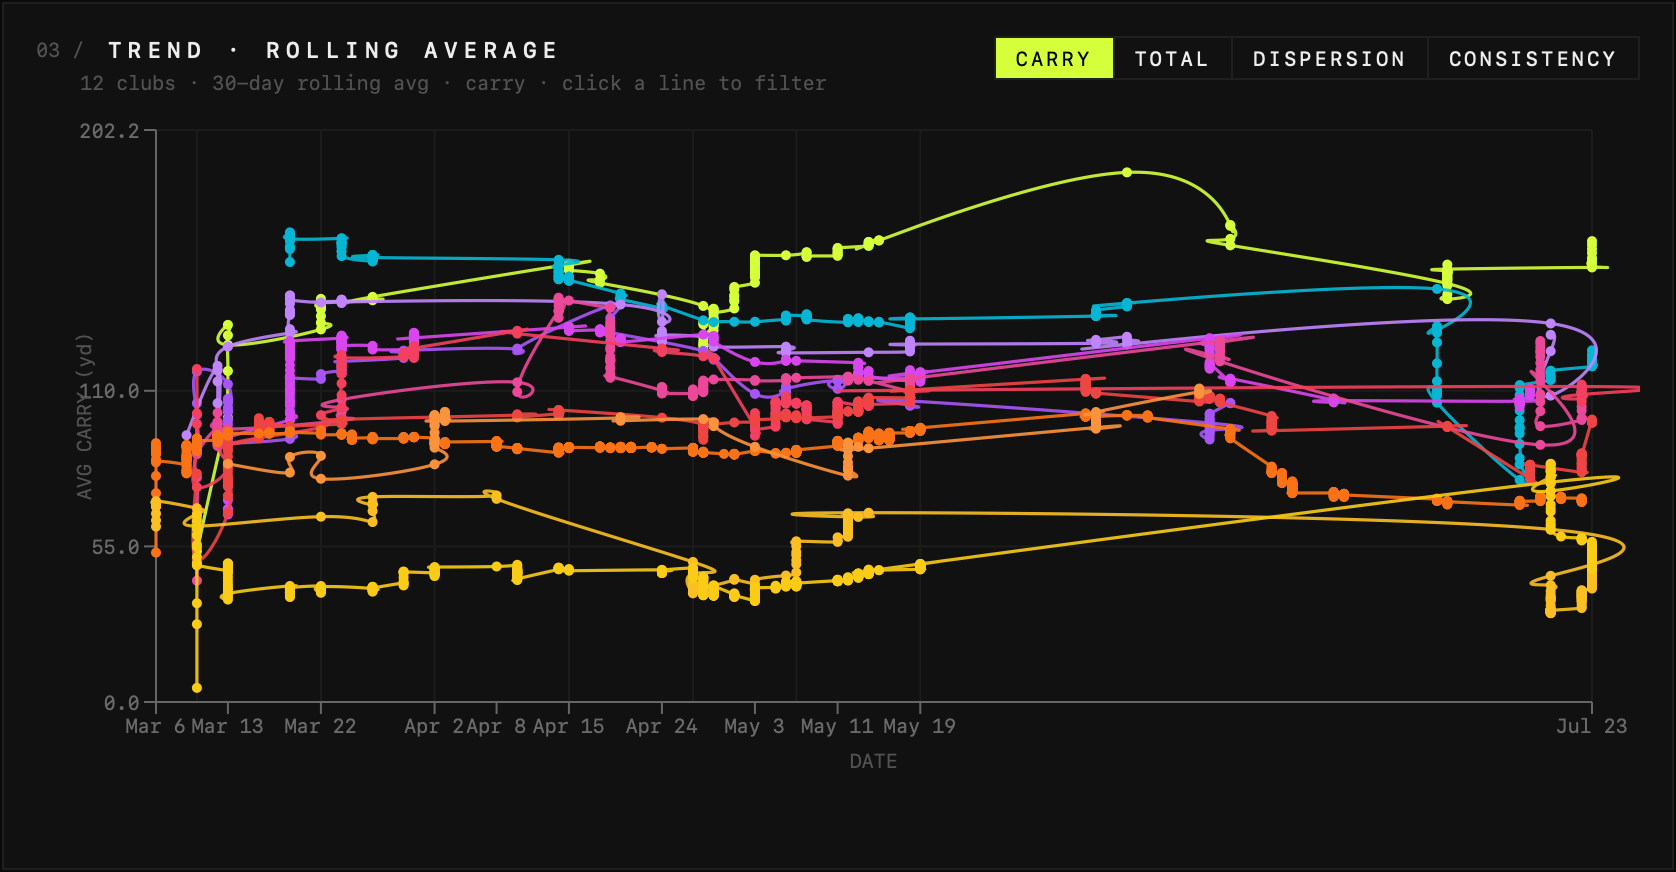
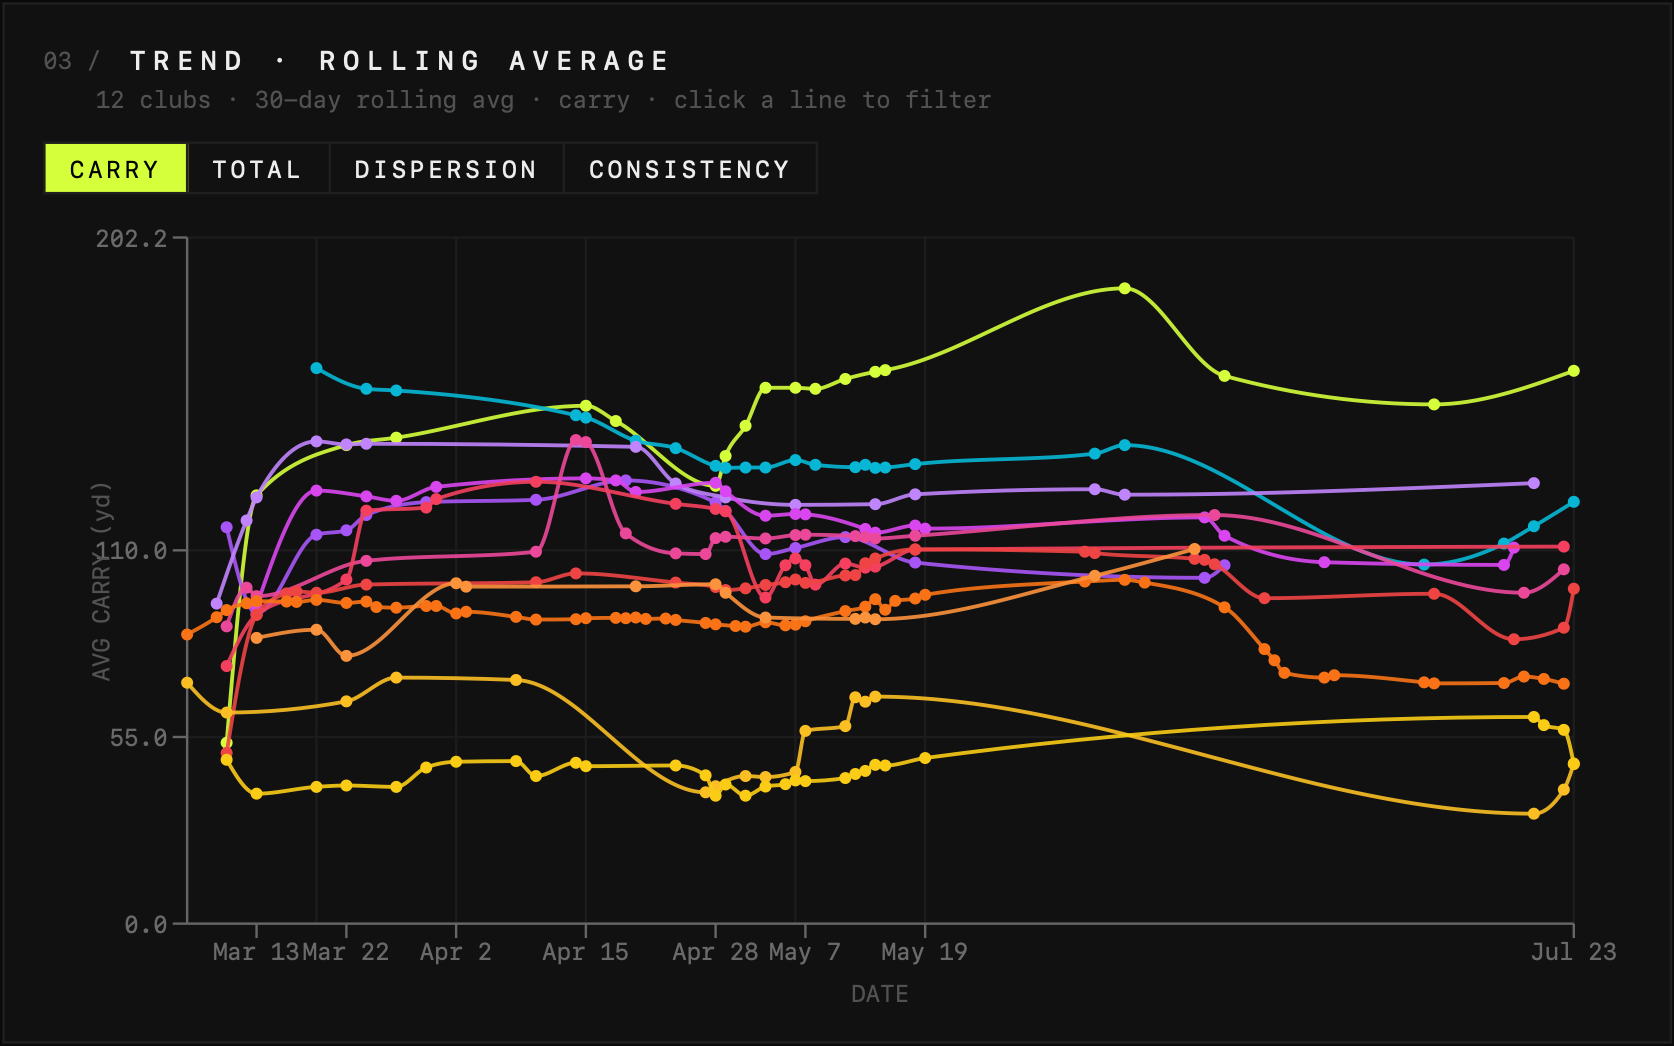
Fix looping GSPro trend lines; even out case study gallery
The trend chart plotted one rolling-average point per shot and joined
them with a natural spline, which overshoots on the dozens of points
bunched into each session and draws lines that loop back on themselves.
Plot one point per local practice day instead and use monotoneX so the
curve can't double back. Recapture gspro-04.png from the fixed chart.

Make gallery frames 03 and 04 full size so the four frames sit in a
2x2 grid instead of leaving an empty slot.

diff --git a/gspro/index.html b/gspro/index.html
@@ -1078,15 +1078,17 @@ function runApp() {
       for (const [club, pts] of Object.entries(byClub)) {
         const sorted = pts.slice().sort((a, b) => a.ts - b.ts);
         if (sorted.length < CONFIG.TREND_MIN_SHOTS) continue;
-        const points = sorted.map((pt, i) => {
+        // One point per practice day: the rolling average as of that day's last shot.
+        // Per-shot points bunch dozens of values minutes apart, which makes the curve loop.
+        const byDay = new Map();
+        sorted.forEach((pt, i) => {
           const windowStart = pt.ts - ROLL_SEC;
           let sum = 0, n = 0;
           for (let j = i; j >= 0 && sorted[j].ts >= windowStart; j--) { sum += sorted[j].val; n++; }
-          return { t: pt.ts, avg: Math.round(sum / n * 10) / 10, n, club };
+          byDay.set(new Date(pt.ts * 1000).toDateString(), { t: pt.ts, avg: Math.round(sum / n * 10) / 10, n, club });
         });
-        const days = new Set(points.map(p => Math.floor(p.t / 86400)));
-        if (days.size < CONFIG.TREND_MIN_BUCKETS) continue;
-        seriesByClub[club] = points;
+        if (byDay.size < CONFIG.TREND_MIN_BUCKETS) continue;
+        seriesByClub[club] = [...byDay.values()];
       }
       const present = BAG_ORDER.filter(c => seriesByClub[c]);
       return { seriesByClub, present, hasData: present.length > 0 };
@@ -1143,7 +1145,7 @@ function runApp() {
             formatter: (v, name, entry) => [`${fmt(v, 1)} ${meta.unit} (${entry.payload.n} shots in window)`, name]
           }),
           present.map(c => /*#__PURE__*/React.createElement(Line, {
-            key: c, name: c, data: seriesByClub[c], dataKey: "avg", type: "natural",
+            key: c, name: c, data: seriesByClub[c], dataKey: "avg", type: "monotoneX",
             stroke: colorFor(c), strokeWidth: 1.6, strokeOpacity: 0.9,
             dot: { r: 2.5, fill: colorFor(c), strokeWidth: 0 },
             activeDot: { r: 5, onClick: () => onClubClick && onClubClick(c), style: { cursor: "pointer" } },

diff --git a/gspro-analytics.html b/gspro-analytics.html
@@ -486,11 +486,11 @@ html:not(.motion) .cap.idle{display:none}
         <span class="fig" data-ok-missing><img src="assets/gspro-02.png" alt="Club summary table with carry, total and consistency" loading="lazy"><span class="ph"><b>PLATE NOT LOADED</b>gspro-02.png</span></span>
         <span class="cap"><span>Club summary &amp; consistency</span><b>02</b></span>
       </button>
-      <button class="shot" type="button" data-src="assets/gspro-03.png" data-caption="Shot feed — paginated, one swing per row">
+      <button class="shot lg" type="button" data-src="assets/gspro-03.png" data-caption="Shot feed — paginated, one swing per row">
         <span class="fig" data-ok-missing><img src="assets/gspro-03.png" alt="Paginated shot feed listing individual swings" loading="lazy"><span class="ph"><b>PLATE NOT LOADED</b>gspro-03.png</span></span>
         <span class="cap"><span>Paginated shot feed</span><b>03</b></span>
       </button>
-      <button class="shot" type="button" data-src="assets/gspro-04.png" data-caption="Distance trend — carry by club across sessions">
+      <button class="shot lg" type="button" data-src="assets/gspro-04.png" data-caption="Distance trend — carry by club across sessions">
         <span class="fig" data-ok-missing><img src="assets/gspro-04.png" alt="Distance trend chart across sessions" loading="lazy"><span class="ph"><b>PLATE NOT LOADED</b>gspro-04.png</span></span>
         <span class="cap"><span>Distance trend by session</span><b>04</b></span>
       </button>
